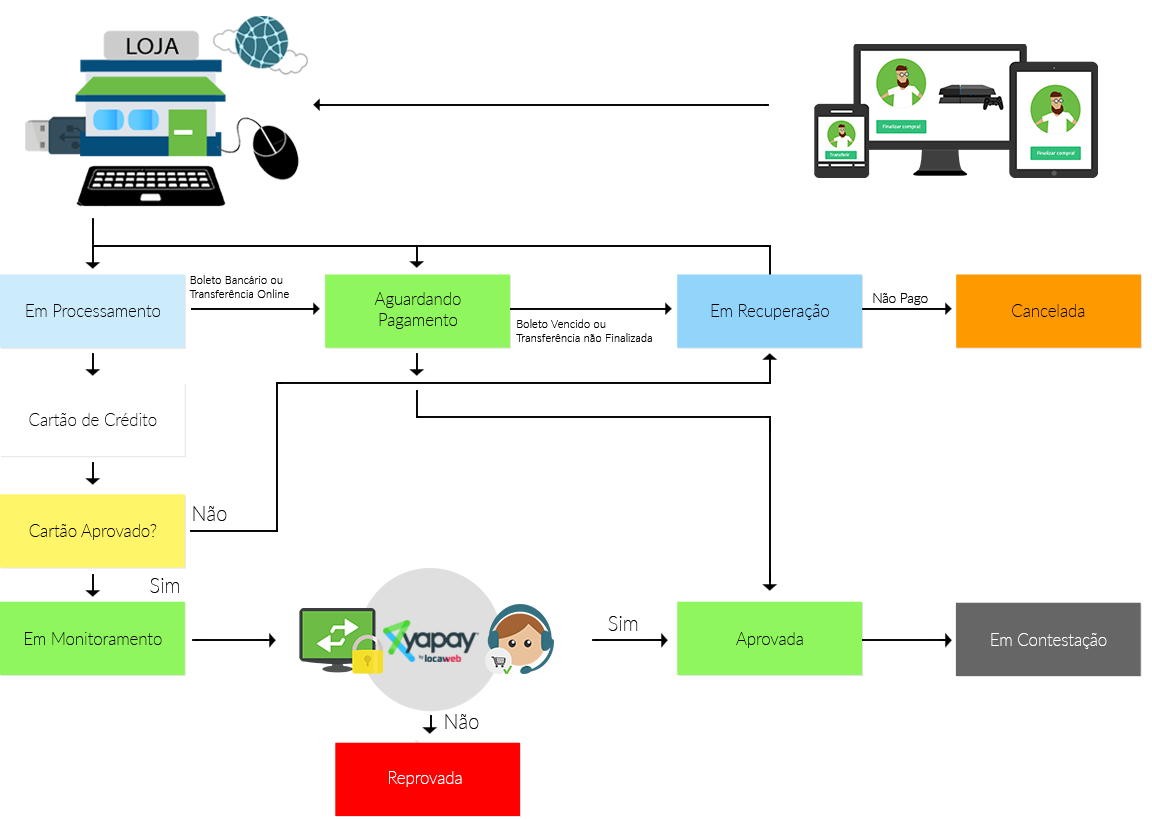
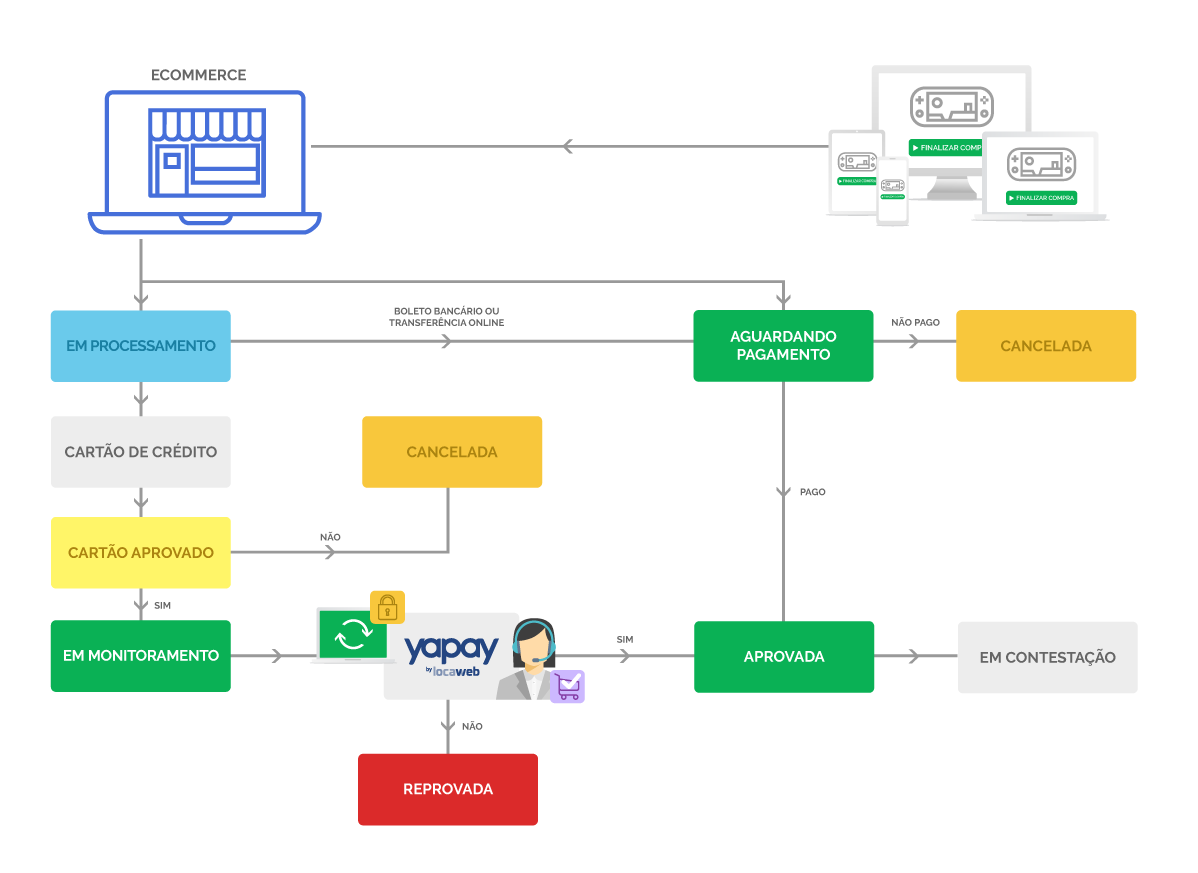
Remoção Status 88

diff --git a/docs/tabelas.md b/docs/tabelas.md
@@ -64,11 +64,8 @@ Abaixo segue tabelas com essas informações pré-definidas:
 | Cancelada                       | 7  |
 | Em Contestação                  | 24 |
 | Em Monitoramento                | 87 |
-| Em Recuperação*                 | 88 |
 | Reprovada                       | 89 |
 
-
-> **Observação:** O status *Em Recuperação* ficará ativo até Março/2019. Após essa data é necessário considerar o status **4 - Aguardando Pagamento**.
 
 ## **Tabela 5 - Gênero**
 
